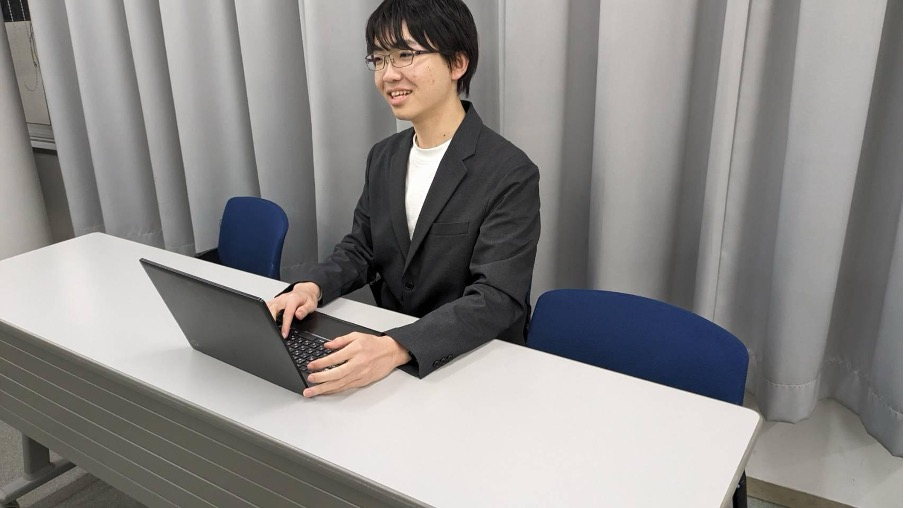
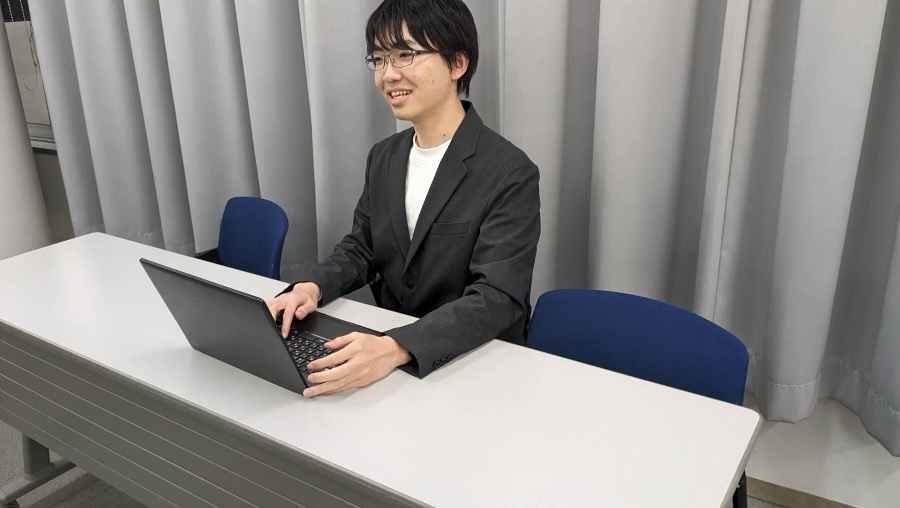
add skyland venturesさんブログ記事ハードコード

diff --git a/pages/blog/23_partner_keyplayers_interview.vue b/pages/blog/23_partner_keyplayers_interview.vue
@@ -14,27 +14,27 @@
                    
             <h2><strong>高野様</strong>について</h2>
 
-            <p><strong>山形</strong><br>本日はよろしくお願いします。</p>
+            <p><strong>山形</strong>：<br>本日はよろしくお願いします。</p>
 
-            <p><strong>高野様</strong><br>よろしくお願いします。</p>
+            <p><strong>高野様</strong>：<br>よろしくお願いします。</p>
 
-            <p><strong>山形</strong><br>まず初めに自己紹介をお願いします。</p>
+            <p><strong>山形</strong>：<br>まず初めに自己紹介をお願いします。</p>
 
-            <p><strong>高野様</strong><br>スタートアップベンチャー転職のキープレイヤーズ代表です。165社の上場支援、創業またはシードから投資して7社上場の実績を持っています。エンジェル投資家でもあります。</p>
+            <p><strong>高野様</strong>：<br>スタートアップベンチャー転職のキープレイヤーズ代表です。165社の上場支援、創業またはシードから投資して7社上場の実績を持っています。エンジェル投資家でもあります。</p>
 
-            <p><strong>山形</strong><br>では高野さんの大学時代から就職にかけてのお話をお聞かせください。</p>
+            <p><strong>山形</strong>：<br>では高野さんの大学時代から就職にかけてのお話をお聞かせください。</p>
 
-            <p><strong>高野様</strong><br>私の両親はどちらも農家出身で、実家は農家でした。祖父や父は社会奉仕を怠らない人で、天皇陛下からも叙勲を受けています。「社会の役に立つことをする」というポリシーなのかなと思ってました。私自身も親に大学の学費等を払ってもらっていたので感謝しています。それを見て育ったので「「自分も何かやらなければ、将来は人助けをするんだ」」と思っていました。それでまずはアルバイトを始めて、その後当時では珍しかったインターンにも参加しました。この時から私は少し周りとは違った価値観を持っていたのかもしれません。周りの人たちは公務員になることや大企業に就職することを目指していることが多く、経営者志望は少なかった印象です。当時、私はいずれ事業を自分で起こしたいと思っていました。自分なりにもトライしましたが、大きくなることはなく、だれも自分のことを知らない状態で自分を試してみたいという気持ちから、地元ではなく都会に出て就活を行おうと思いました。(結果として、)今後伸びそうな企業という観点からインテリジェンス（現パーソル）に就職し、そこで6年間働きその後独立しました。</p>
+            <p><strong>高野様</strong>：<br>私の両親はどちらも農家出身で、実家は農家でした。祖父や父は社会奉仕を怠らない人で、天皇陛下からも叙勲を受けています。「社会の役に立つことをする」というポリシーなのかなと思ってました。私自身も親に大学の学費等を払ってもらっていたので感謝しています。それを見て育ったので「「自分も何かやらなければ、将来は人助けをするんだ」」と思っていました。それでまずはアルバイトを始めて、その後当時では珍しかったインターンにも参加しました。この時から私は少し周りとは違った価値観を持っていたのかもしれません。周りの人たちは公務員になることや大企業に就職することを目指していることが多く、経営者志望は少なかった印象です。当時、私はいずれ事業を自分で起こしたいと思っていました。自分なりにもトライしましたが、大きくなることはなく、だれも自分のことを知らない状態で自分を試してみたいという気持ちから、地元ではなく都会に出て就活を行おうと思いました。(結果として、)今後伸びそうな企業という観点からインテリジェンス（現パーソル）に就職し、そこで6年間働きその後独立しました。</p>
 
             <h2>起業の考え方</h2>
 
-            <p><strong>山形</strong><br>高野さんは大学卒業後は起業ではなく就職という手段を取られたとのことですが、それはなぜですか？</p>
+            <p><strong>山形</strong>：<br>高野さんは大学卒業後は起業ではなく就職という手段を取られたとのことですが、それはなぜですか？</p>
 
-            <p><strong>高野様</strong><br>まずは、その当時の私には起業して成功を収めるだけの力がないと感じていたからです。仕事で結果を出して、信頼されることが大事だと思っていました。また、昔は起業する手段も少なかったですね。昔は株式会社は取締役3人、監査役ひとりが必ず必要だったと記憶してます。今とは違って。</p>
+            <p><strong>高野様</strong>：<br>まずは、その当時の私には起業して成功を収めるだけの力がないと感じていたからです。仕事で結果を出して、信頼されることが大事だと思っていました。また、昔は起業する手段も少なかったですね。昔は株式会社は取締役3人、監査役ひとりが必ず必要だったと記憶してます。今とは違って。</p>
 
-            <p><strong>山形</strong><br>今の時代だったら就職ではなく起業してますか？</p>
+            <p><strong>山形</strong>：<br>今の時代だったら就職ではなく起業してますか？</p>
 
-            <p><strong>高野様</strong><br>起業というか個人事業主でやってみて、月に100万から200万は稼げたらそのまま事業にしたのではないかと。当時もやってみましたが自分ではできませんでした。今は起業しやすくなって、副業とかで起業する人とかも出てきているじゃないですか。でも、結局ほとんどはもうかっていないんですよ。やっぱり就職して実績を出してからでも良いと思います。学生時代に月に200万くらい稼いでる人って今いると思いますが、才能あると思うんですよね。</p>
+            <p><strong>高野様</strong>：<br>起業というか個人事業主でやってみて、月に100万から200万は稼げたらそのまま事業にしたのではないかと。当時もやってみましたが自分ではできませんでした。今は起業しやすくなって、副業とかで起業する人とかも出てきているじゃないですか。でも、結局ほとんどはもうかっていないんですよ。やっぱり就職して実績を出してからでも良いと思います。学生時代に月に200万くらい稼いでる人って今いると思いますが、才能あると思うんですよね。</p>
 
             <p>大体2000万円を1人で稼げるようになったらだんだんあきてきたり、もっと大きくしたくなる人が多いです。</p>
 
@@ -42,44 +42,44 @@
 
             <h2>学生に向けて</h2>
 
-            <p><strong>山形</strong><br>学生のうちに取り組むと良いことは何だと思いますか？</p>
+            <p><strong>山形</strong>：<br>学生のうちに取り組むと良いことは何だと思いますか？</p>
 
-            <p><strong>高野様</strong><br>まずは何でも良いから興味を持てるものを探すことです。そして、進む業界を決めたら、その業界の中でのトップを目指すことです。そのためにいろんな仕事にトライしましょう。ただ、最初のうちは特に学生の間なんかは何もできないと思われて、相手にしてもらえない、つまり仕事を任せられないと思います。だからこそ、学生のうちは何かに打ち込んで目標をクリアするという経験を積んでほしいですね。何かに打ち込んでいて、自分なりの目標を立てて実行している人は、企業から見ても結構魅力的なんですよ。</p>
+            <p><strong>高野様</strong>：<br>まずは何でも良いから興味を持てるものを探すことです。そして、進む業界を決めたら、その業界の中でのトップを目指すことです。そのためにいろんな仕事にトライしましょう。ただ、最初のうちは特に学生の間なんかは何もできないと思われて、相手にしてもらえない、つまり仕事を任せられないと思います。だからこそ、学生のうちは何かに打ち込んで目標をクリアするという経験を積んでほしいですね。何かに打ち込んでいて、自分なりの目標を立てて実行している人は、企業から見ても結構魅力的なんですよ。</p>
 
-            <p><strong>山形</strong><br>他にどんな人材がほしいとかありますか？</p>
+            <p><strong>山形</strong>：<br>他にどんな人材がほしいとかありますか？</p>
 
-            <p><strong>高野様</strong><br>私はギブアンドギブとか利他主義といった言葉が好きです。基本的に人間は自分がかわいいので自分を優先しますが、その中でどれだけ人を優先できるかがその人の価値を決めると思っています。これが社会貢献につながり、自分が社会にいる価値になります。これができるのは自分の目の前のことができていてゆとりがあるからです。このようなゆとりを持ち、今日できること、自分以外の人が喜ぶことをたくさん行うことができる人、それがほしい人材です。</p>
+            <p><strong>高野様</strong>：<br>私はギブアンドギブとか利他主義といった言葉が好きです。基本的に人間は自分がかわいいので自分を優先しますが、その中でどれだけ人を優先できるかがその人の価値を決めると思っています。これが社会貢献につながり、自分が社会にいる価値になります。これができるのは自分の目の前のことができていてゆとりがあるからです。このようなゆとりを持ち、今日できること、自分以外の人が喜ぶことをたくさん行うことができる人、それがほしい人材です。</p>
 
             <img src="/blog/23_partner_keyplayers_interview/002.jpg" alt="TEDxUTsukubaメンバー(高橋)がインタビューを行っている" style="width: 100%; margin: 1rem 0;">
 
             <h2>TEDxへの協賛理由</h2>
 
-            <p><strong>山形</strong><br>TEDxへの協賛の背景には何がありますか？</p>
+            <p><strong>山形</strong>：<br>TEDxへの協賛の背景には何がありますか？</p>
 
-            <p><strong>高野様</strong><br>最初はSkyland Venturesの木下さんから、一緒にTEDxという団体に協賛しないかと誘いがあったことです。</p>
+            <p><strong>高野様</strong>：<br>最初はSkyland Venturesの木下さんから、一緒にTEDxという団体に協賛しないかと誘いがあったことです。</p>
 
-            <p><strong>山形</strong><br>そうだったんですね。</p>
+            <p><strong>山形</strong>：<br>そうだったんですね。</p>
 
-            <p><strong>高野様</strong><br>ずっと人助けをしていきたいと思っていて、特に学生の起業や活動に関心がありました。今までは忙しく手が付けられていなかったのですが、今回機会をもらったので彼らに対する支援を始めようかなと考えました。そういう意味では、TEDxへの協賛は、小規模ながら多方面への寄付の一環です。</p>
+            <p><strong>高野様</strong>：<br>ずっと人助けをしていきたいと思っていて、特に学生の起業や活動に関心がありました。今までは忙しく手が付けられていなかったのですが、今回機会をもらったので彼らに対する支援を始めようかなと考えました。そういう意味では、TEDxへの協賛は、小規模ながら多方面への寄付の一環です。</p>
 
-            <p><strong>山形</strong><br>ありがとうございます！高野さんはTEDxのどんなところに期待していますか？</p>
+            <p><strong>山形</strong>：<br>ありがとうございます！高野さんはTEDxのどんなところに期待していますか？</p>
 
-            <p><strong>高野様</strong><br>学生が表現をする場を設けるという意味で、TEDxの環境は素晴らしいと思います。ただ、もちろんプロの人たちが開催するイベントと比べてしまうと、どうしてもクオリティが落ちてしまうのも確かです。今後は学生たちがクオリティを上げるために本気になりクオリティを上げようとすると、当然それだけ大変になるのですが、それだけ熱意をもって学生が取り組む、そういった環境になることに期待しています。集団としてではなく個人間の関わりとしては、単純に面白いなーって人に会ってみたいですね。登壇者でももちろんそうだし、学生にもそういう人はいるんですよ。</p>
+            <p><strong>高野様</strong>：<br>学生が表現をする場を設けるという意味で、TEDxの環境は素晴らしいと思います。ただ、もちろんプロの人たちが開催するイベントと比べてしまうと、どうしてもクオリティが落ちてしまうのも確かです。今後は学生たちがクオリティを上げるために本気になりクオリティを上げようとすると、当然それだけ大変になるのですが、それだけ熱意をもって学生が取り組む、そういった環境になることに期待しています。集団としてではなく個人間の関わりとしては、単純に面白いなーって人に会ってみたいですね。登壇者でももちろんそうだし、学生にもそういう人はいるんですよ。</p>
 
             <h2>一言メッセージ</h2>
 
-            <p><strong>山形</strong><br>最後に大学生に向けて一言お願いします。</p>
+            <p><strong>山形</strong>：<br>最後に大学生に向けて一言お願いします。</p>
 
-            <p><strong>高野様</strong><br>会社に入ってしまったら会社が目標を決め、それに向かって頑張るようになります。だから、目標を決めて実行するのは大学生のうちに経験しなければ経験しづらいものです。でも、社会人になっても自分の目標がなにかを答えられない人はつまらない人になります。逆に目標をはっきり決めて、それに向かって頑張っている人は応援したくなるし、アドバイスもしやすいです。ですから、自分の目標を決めて歩んでいってほしいです。</p>
+            <p><strong>高野様</strong>：<br>会社に入ってしまったら会社が目標を決め、それに向かって頑張るようになります。だから、目標を決めて実行するのは大学生のうちに経験しなければ経験しづらいものです。でも、社会人になっても自分の目標がなにかを答えられない人はつまらない人になります。逆に目標をはっきり決めて、それに向かって頑張っている人は応援したくなるし、アドバイスもしやすいです。ですから、自分の目標を決めて歩んでいってほしいです。</p>
 
-            <p><strong>山形</strong><br>本日はこれで以上となります。お忙しい中お時間いただきありがとうございました！</p>
+            <p><strong>山形</strong>：<br>本日はこれで以上となります。お忙しい中お時間いただきありがとうございました！</p>
 
-            <p><strong>高野様</strong><br>ありがとうございました。</p>
+            <p><strong>高野様</strong>：<br>ありがとうございました。</p>
 
             <hr>
             <img src="/blog/23_partner_keyplayers_interview/003.jpg" alt="株式会社キープレイヤーズ 代表取締役 高野秀敏様" style="width: 100%; margin: 1rem 0;">
             <h2>プロフィール</h2>
-            <p>株式会社キープレイヤーズ（<a href="https://keyplayers.jp/">ウェブサイト</a>）：代表取締役　高野秀敏様</p>
+            <p>株式会社キープレイヤーズ（<a href="https://keyplayers.jp/">ウェブサイト</a>）：代表取締役　高野秀敏様（<a href="https://twitter.com/keyplayers">@keyplayers</a>）</p>
 
             <p>インタビュアー：TEDxUTsukuba　山形・高橋・田中<br>
             記事編集・作成：TEDxUTsukuba　田中・高橋</p>
@@ -99,10 +99,35 @@
             name: "description",
             content: "2023年TEDxUTsukubaイベント「万華鏡」にて協賛していただいた株式会社キープレイヤーズの代表を務める高野様にお話を伺いました。",
           },
+          {
+            hid: "og:title",
+            property: "og:title",
+            content: "株式会社キープレイヤーズ 高野様 インタビュー",
+          },
+          {
+            hid: "og:description",
+            property: "og:description",
+            content: "2023年TEDxUTsukubaイベント「万華鏡」にて協賛していただいた株式会社キープレイヤーズの代表を務める高野様にお話を伺いました。",
+          },
           // ogp画像
           {
             hid: "og:image",
             property: "og:image",
+            content: "https://www.tedxutsukuba.com/blog/23_partner_keyplayers_interview/003.jpg",
+          },
+          {
+            hid: "twitter:title",
+            name: "twitter:title",
+            content: "株式会社キープレイヤーズ 高野様 インタビュー",
+          },
+          {
+            hid: "twitter:description",
+            name: "twitter:description",
+            content: "2023年TEDxUTsukubaイベント「万華鏡」にて協賛していただいた株式会社キープレイヤーズの代表を務める高野様にお話を伺いました。",
+          },
+          {
+            hid: "twitter:image",
+            name: "twitter:image",
             content: "https://www.tedxutsukuba.com/blog/23_partner_keyplayers_interview/003.jpg",
           },
         ],

diff --git a/pages/blog/23_partner_skylandventures_interview.vue b/pages/blog/23_partner_skylandventures_interview.vue
@@ -1,0 +1,199 @@
+<template>
+    <section id="wrapper-dark">
+        <section class="section has-text-centered is-halfheight">
+            <i class="mdi mdi-newspaper has-text-primary is-size-1" />
+            <h1 class="title is-2 is-spaced">Skyland Ventures 木下様 インタビュー</h1>
+            <p class="subtitle has-text-grey-light">
+                2023年TEDxUTsukubaイベント「万華鏡」にて協賛していただいたSkyland Venturesの代表を務める木下様にお話を伺いました。
+            </p>
+            <img src="/blog/23_partner_skylandventures_interview/002.jpg" alt="Skyland Venturesの方とTEDxUTsukubaメンバーの集合写真" style="width: 100%; margin: 1rem 0;">
+        </section>
+        <section class="section">
+        <article class="article">
+            <p>今回はSkyland Ventures（<a href="https://twitter.com/skylandvc">@skylandvc</a>）の木下慶彦様（<a href="https://twitter.com/kinoshitay">@kinoshitay</a>）へインタビューさせていただきました。会社についてやTEDx団体についてのお話、そして今の学生へ向けたコメントを頂戴いたしました。</p>
+
+            <h2>Skyland Venturesについて</h2>
+
+            <p><strong>田中</strong>：<br>
+            まずは簡単に、Skyland Venturesの事業内容について教えてください。</p>
+
+            <p><strong>木下様</strong>：<br>
+            Skyland Ventures はベンチャーキャピタル（VC）で、2012年から11年以上スタートアップに対する投資を行っています。主に25歳くらいまでの方に投資をしていて、半数くらいは学生起業家です。そして、「起業しろ」というメッセージを発信しています。
+            肌感としては、日本という環境では才能がある人でも自分でプロジェクトをやるということがとても難しく、そのメンタリティがあってもやっていない人が多いと感じています。ここ3年くらいでその状況は変化してきた気もしますが、起業は一般的な概念になってはいないと感じますね。特に地方大学は、東京の感覚とは違うからその行動が起こりにくいように思っています。自分は若い人が起業した方が良いし、学生起業が最高だとも思います。</p>
+
+            <p><strong>田中</strong>：<br>
+            Skyland Venturesが達成しようと思っていることはなんですか？</p>
+
+            <p><strong>木下様</strong>：<br>
+            起業やスタートアップがマス化することです。日本だと時間はかかると思いますが、これはすごく意味のあることだと思っています。</p>
+
+            <p><strong>田中</strong>：<br>
+            なるほど、ありがとうございます。Skyland Venturesではインターン生を積極的に受け入れていると伺いましたが、何か期待していることやその理由等はありますか？</p>
+
+            <p><strong>木下様</strong>：<br>
+            インターン生の進路は起業ばかりかというとそうではなく、VCの企業もいますし、大手企業など様々です。前提の考えとして、大学時代にVCにたどり着いたりスタートアップやVCでバイト・インターンをしたりしている人はまず優秀だと思っています。ですので、彼らに機会提供をしたいという思いがあるというのが1つです。
+            ただ、単純に機会提供というだけでもなく、その中からVCに1人でも良いから出てきてくれたらな、という思いもあります。将来的にも Skyland Venturesで働いてくれたら自分としては嬉しくもありますが、もう少し広範囲で捉えていて「VCやスタートアップをしてみよう」と思ってくれたら大成功みたいなところはあります。その中で Skyland Ventures がいいのか他の企業がいいのか、こだわりをもって選んでほしいと考えます。
+            こういう仕事やこういう業界は中々浸透していない部分もあるので、まずは知ってもらって、好きになってもらえるっていうのが大事。それがTEDxに関わった理由の1つでもあります。スタートアップとかVCって普通はなかなか興味を持ちにくいと思うんですよ。でも「こういうのも良いのではないか」と色々な人に思ってほしいです。</p>
+
+            <p><strong>富田</strong>：<br>
+            VCを広く知ってほしいという思いがあるのですね。先ほど学生で起業するのが最高だとも仰っていましたが、学生で起業する一番の魅力は何だとお考えですか？</p>
+
+            <p><strong>木下様</strong>：<br>
+            大学生は「大学に行けば同世代の人が大勢いる」という環境があるので、「仲間が多い」ことが大きな魅力だと思いますね。その環境がある学生の方が人との関わりを持ちやすいんじゃないかと思います。社会人になると仲間と出会う機会が少なくなって、より断絶感を感じることが多くなると思うんですよ。学生はサークルとかで共通の趣味を持つ人と出会いやすい環境があっても、社会人になるとそういうのが身近でなくなるというのも一つの要因だと考えています。あとは高校卒業後大学に行って、そして大学を卒業して就職をして、というように大人になっていくほど皆すごく落ち着いて「普通の人」になっていくなという感覚があります。年齢を重ねるにつれて野心が無くなっていく世界、だからこそ若手に起業してほしいんです。肌感としては30歳を超えたら動かなくなる人が多くなるように感じます。</p>
+
+            <p><strong>田中</strong>：<br>
+            ありがとうございます。個人的にはある程度ビジネスの経験がある状態で起業をした方が成功しやすいのではないかと考えてしまうのですが、そういった経験を積んでから起業というよりも、若いときから起業という考え方が新鮮に感じます。</p>
+
+            <p><strong>木下様</strong>：<br>
+            例えばChatGPTとかってこの1年くらいのもので、その前からこれが世に出ることを言ってた人なんていなくて。もっと身近になっているスマホに関しても同じで、スマホが出てくることを前から予言していた人なんていないですよね。自分の成長するスピードよりも世の中の成長のスピードの方が早くて予想が付かないことも多いから、行動してみることは意義のあることだと思います。</p>
+
+            <p><strong>田中</strong>：<br>
+            そういったお考えだったのですね。他の記事で「新卒で会社に入った人のことを即戦力だと思う」と仰っているのを拝見しました。今の日本では「新卒は入社してから育てていく」という考え方が多い気がするのですが、このようにお考えの理由を教えていただけますか？</p>
+
+            <p><strong>木下様</strong>：<br>
+            そうですね…でも、新卒を戦力として期待しないのって日本だけだと思いますよ。機会を提供すれば人は成長する、というのが根本の考え方にあります。誰かに育ててもらうというよりは、自分で育っていくんじゃないですかね。</p>
+
+            <img src="/blog/23_partner_skylandventures_interview/001.jpg" alt="木下様の話を伺う富田と田中" style="width: 100%; margin: 1rem 0;">
+
+            <h2>今までの経験について</h2>
+
+            <p><strong>田中</strong>:<br>
+            次に、木下さん自身について伺いたいと思います。若いときから様々なことをやられているかと思うのですが、その中で経験した辛かったことや失敗などはありますか？</p>
+
+            <p><strong>木下様</strong>：<br>
+            あまり失敗として印象に残っていることはないですね…。VCって投資の仕事をしているんですけど、大前提として僕自身のお金でやっているわけではないんですよ。他の人のお金を預けていただいて、それを元手にやっている仕事なんです。それはスタートアップも同じで、スタートアップも投資家さんのお金でやってることが多いです。分かりやすく、自分は「他力」と「自力」という言葉をよく使っていて、今自分がやっているような事業は他力に分類されると思っています。ちょっとしたミスはあっても、他力でのビジネスなのでそれが辛いと思ったことは一度もないです。</p>
+
+            <p><strong>田中</strong>：<br>
+            では、VCをやって良かったと思うことは何ですか？</p>
+
+            <p><strong>木下様</strong>：<br>
+            VCに限った話ではないのですが、起業している人は結構ポジティブな人が多いです。この、ポジティブな人が多いっていうのがこの仕事の魅力の1つなのではないかなと思います。そして、スタートアップ関連の周りの人も魅力的な人達が多いなと思います。</p>
+
+            <p><strong>田中</strong>：<br>
+            確かに、ポジティブな人と一緒にいると自然とポジティブになりますよね。ちなみに、今たくさんの経験や知識をお持ちだと思うのですが、もし今のこの知識を持って大学生に戻れるとしたらどういうことをしたいと思いますか。</p>
+
+            <p><strong>木下様</strong>：<br>
+            なるほど…大学生に戻るとしたら。元々ぼんやりと起業したいっていうのはあったんですけど、どの業界で起業すればいいのか分からなくて。VCは社会的にも意味のある仕事であって、色々な起業家と出会えて良さそうだなと思って始めました。もしも大学生のうちに良い業界を見つけられるとしたら起業したいと思うかもしれないですね。</p>
+
+            <h2>TEDxU団体について</h2>
+
+            <p><strong>富田</strong>：<br>
+            続いて、今回多くのTEDxU団体に協賛をされていましたがその理由をお聞かせください。</p>
+
+            <p><strong>木下様</strong>：<br>
+            TEDxっていう枠組みが良い取り組みだとインターンのメンバーに聞いたのをきっかけに、スポンサーをすることにしました。個人的には、大学内で世の中に影響のあることをしようとするのがいいなと感じました。</p>
+
+            <p><strong>富田</strong>：<br>
+            ありがとうございます。様々なTEDx団体のメンバーにお会いする機会があったかと思うのですが、団体の印象はどうでしょうか？</p>
+
+            <p><strong>木下様</strong>：<br>
+            お会いしたTEDxU団体は女性率が高くて驚きました。スタートアップのイベントって女性率2，3割くらいなので、自分にとってはすごく新鮮な環境でしたね。女性代表がいるかどうかで女性比率って変わってくると思うんですけど、TEDxU団体には女性代表が多くいますよね。女性に限らず、基本的には組織には様々な人がいた方が良いと思います。</p>
+
+            <p><strong>富田</strong>：<br>
+            最後に学生に向けてメッセージをお願いします。</p>
+
+            <p><strong>木下様</strong>：<br>
+            学生のうちはTEDxを含めた様々なイベントから人が動いていくことが多いと思うので、イベントに参加してみて、そこで出会った人達とつながり、そして居場所をつくっていくと良いと思います。</p>
+
+            <p><strong>富田</strong>：<br>
+            これで以上となります。本日はお忙しい中お時間をとって頂きありがとうございました！</p>
+
+
+            <hr>
+            <h2>プロフィール</h2>
+            <p>スカイランドベンチャーズ株式会社（<a href="https://skyland.vc/">ウェブサイト</a>）：代表取締役　木下慶彦様（<a href="https://twitter.com/kinoshitay">@kinoshitay</a>）</p>
+
+            <p>インタビュアー：TEDxUTsukuba　富田・田中<br>
+            記事編集・作成：TEDxUTsukuba　和田</p>
+        </article>
+        </section>
+    </section>
+  </template>
+  
+  <script>
+  export default {
+    head() {
+      return {
+        title: "スカイランドベンチャーズ株式会社 木下様 インタビュー",
+        meta: [
+          {
+            hid: "description",
+            name: "description",
+            content:
+              "2023年TEDxUTsukubaイベント「万華鏡」にて協賛していただいたスカイランドベンチャーズ株式会社の代表を務める木下様にお話を伺いました。",
+          },
+          {
+            hid: "og:title",
+            property: "og:title",
+            content: "スカイランドベンチャーズ株式会社 木下様 インタビュー",
+          },
+          {
+            hid: "og:description",
+            property: "og:description",
+            content:
+              "2023年TEDxUTsukubaイベント「万華鏡」にて協賛していただいたスカイランドベンチャーズ株式会社の代表を務める木下様にお話を伺いました。",
+          },
+          {
+            hid: "og:image",
+            property: "og:image",
+            content: "https://tedxutsukuba.com/blog/23_partner_skylandventures_interview/002.jpg",
+          },
+          {
+            hid: "twitter:title",
+            name: "twitter:title",
+            content: "スカイランドベンチャーズ株式会社 木下様 インタビュー",
+          },
+          {
+            hid: "twitter:description",
+            name: "twitter:description",
+            content:
+              "2023年TEDxUTsukubaイベント「万華鏡」にて協賛していただいたスカイランドベンチャーズ株式会社の代表を務める木下様にお話を伺いました。",
+          },
+          {
+            hid: "twitter:image",
+            name: "twitter:image",
+            content: "https://tedxutsukuba.com/blog/23_partner_skylandventures_interview/002.jpg",
+          },
+        ],
+      }
+    },
+  }
+  </script>
+  
+  <style scoped>
+  hr {
+    height: 1px;
+  }
+  a {
+    color: #fff;
+    font-weight: bold;
+  }
+
+.article h2 {
+    margin-top: 1.5rem;
+    font-size: 2rem; /* Increase the font size for more prominence */
+    font-weight: bold;
+    margin-bottom: 1rem;
+    color: #fff; /* Set the color to white for visibility in dark mode */
+}
+
+  a {
+    color: hsl(217, 71%, 53%);
+  }
+
+  a:hover {
+    color: hsl(217, 71%, 63%);
+    text-decoration: underline;
+  }
+
+  strong {
+    font-weight: bold;
+    color: #FFF;
+  }
+
+  p {
+    color: #ddd !important;
+    line-height: 2rem;
+    margin-bottom: 1rem;
+  }
+  </style>

diff --git a/pages/blog/index.vue b/pages/blog/index.vue
@@ -9,7 +9,7 @@
     </section>
     <section class="section">
       <div class="columns is-multiline is-mobile">
-      <div class="column is-6-tablet is-full-mobile" v-for="(blog, index) in blogs" :key="index">
+      <div class="column is-6-tablet is-full-mobile h-full" v-for="(blog, index) in blogs" :key="index">
         <div class="nmp-dark my-4">
         <header class="card-header">
           <p class="card-header-title">
@@ -30,7 +30,9 @@
         </div>
         <div class="card-content">
           <h2 class="title is-size-5">{{ blog.title }}</h2>
-          <p class="has-text-grey-light">{{ blog.description }}</p>
+          <p class="content">
+            {{ blog.description }}
+          </p>
           <br />
           <nav class="level is-mobile">
           <div class="level-left">
@@ -64,6 +66,14 @@ export default {
           image: "/blog/23_partner_keyplayers_interview/003.jpg",
           path: "/blog/23_partner_keyplayers_interview",
         },
+        {
+          title: "Skyland Ventures 木下様 インタビュー",
+          date: "2024/04/08",
+          description: "2023年TEDxUTsukubaイベント「万華鏡」にて協賛していただいたSkyland Venturesの代表を務める木下様にお話を伺いました。",
+          image: "/blog/23_partner_skylandventures_interview/002.jpg",
+          path: "/blog/23_partner_skylandventures_interview",
+        },
+        
       ],
     };
   },
